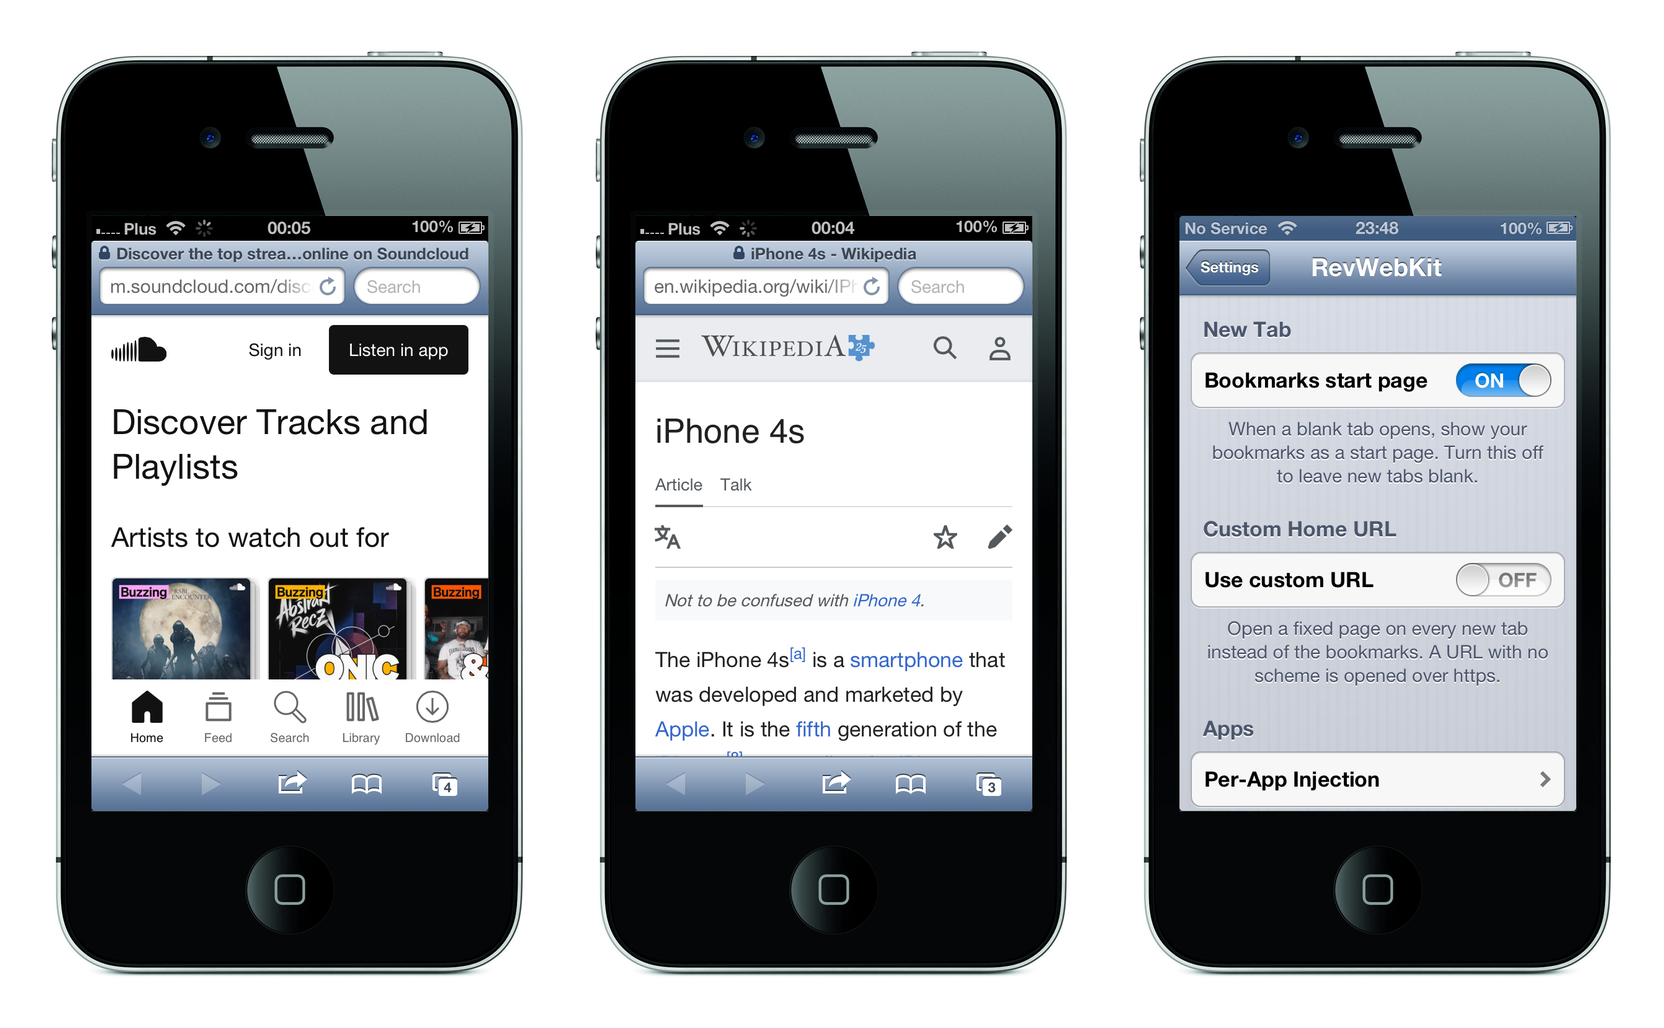
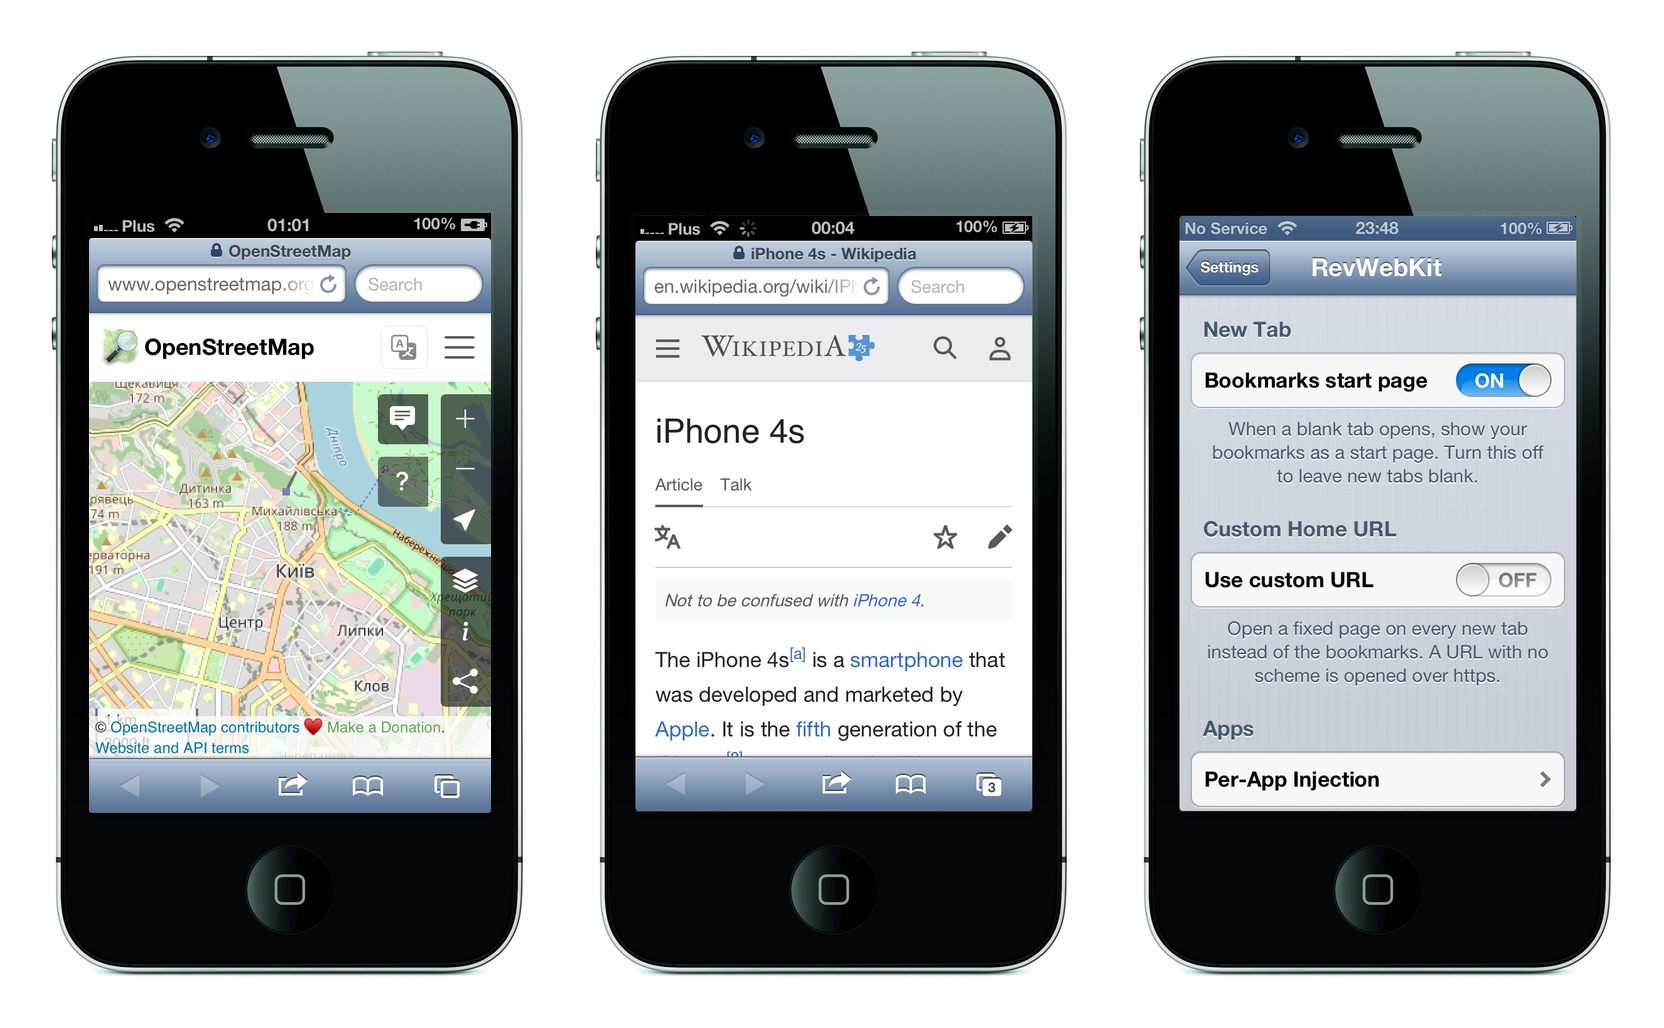
Show sites that are open, and say whose the names are
The screenshots led with a music service and a video platform, which is a lot of
somebody else's branding to put at the top of a public repository for no reason
the engine needs. They are replaced by pages that are as heavy but openly
licensed: OpenStreetMap, whose map tiles and Leaflet chrome are a harder render
than either, the Internet Archive, and Wikipedia. The start page is reshot with
the bookmarks it has now.

README also carries a trademarks and screenshots notice: the pages shown belong
to their owners, they appear nominatively to demonstrate a browser engine, and
this project ships none of their code, assets or branding.

Changed region(s): [[0.0312, 0.1868, 0.3125, 0.7782]]

diff --git a/README.md b/README.md
@@ -14,15 +14,15 @@ negotiate TLS with a current server, or perform the cryptography a login form
 needs. Each of those is fixed here.
 
 <p align="center">
-  <img src="docs/screenshots/browser-modern-web.png" alt="Google, YouTube and the bookmarks start page rendered on an iPhone 4S" width="100%">
+  <img src="docs/screenshots/browser-modern-web.png" alt="The bookmarks start page, Wikipedia and the Internet Archive rendered on an iPhone 4S" width="100%">
   <br>
-  <em>Google, YouTube and the new-tab start page — on an iPhone 4S, in Mobile Safari.</em>
+  <em>The new-tab start page, Wikipedia and the Internet Archive — on an iPhone 4S, in Mobile Safari.</em>
 </p>
 
 <p align="center">
-  <img src="docs/screenshots/browser-and-settings.png" alt="SoundCloud, Wikipedia and the RevWebKit settings pane" width="100%">
+  <img src="docs/screenshots/browser-and-settings.png" alt="OpenStreetMap, Wikipedia and the RevWebKit settings pane" width="100%">
   <br>
-  <em>SoundCloud, Wikipedia, and the RevWebKit Settings pane.</em>
+  <em>OpenStreetMap, Wikipedia, and the RevWebKit Settings pane.</em>
 </p>
 
 ## Contents
@@ -244,6 +244,15 @@ webkit-254/     The engine, a git submodule on the ios6-armv7 branch
 The reasoning behind the port and the measurements behind each decision are in
 `notes/` — `notes/design-journal.md` is where it started, and the `night-run-*.md`
 files record what was tried, what worked, and what was refuted by measuring it.
+
+## Trademarks and screenshots
+
+The screenshots show third-party websites rendered by this engine, as examples of
+what it displays on the device. All names, logos, page designs and content in
+them remain the property of their respective owners and are shown nominatively -
+to demonstrate a browser engine working - under fair use. This project is not
+affiliated with, endorsed by, or sponsored by any of them, and ships none of
+their code, assets or branding.
 
 ## License
 
